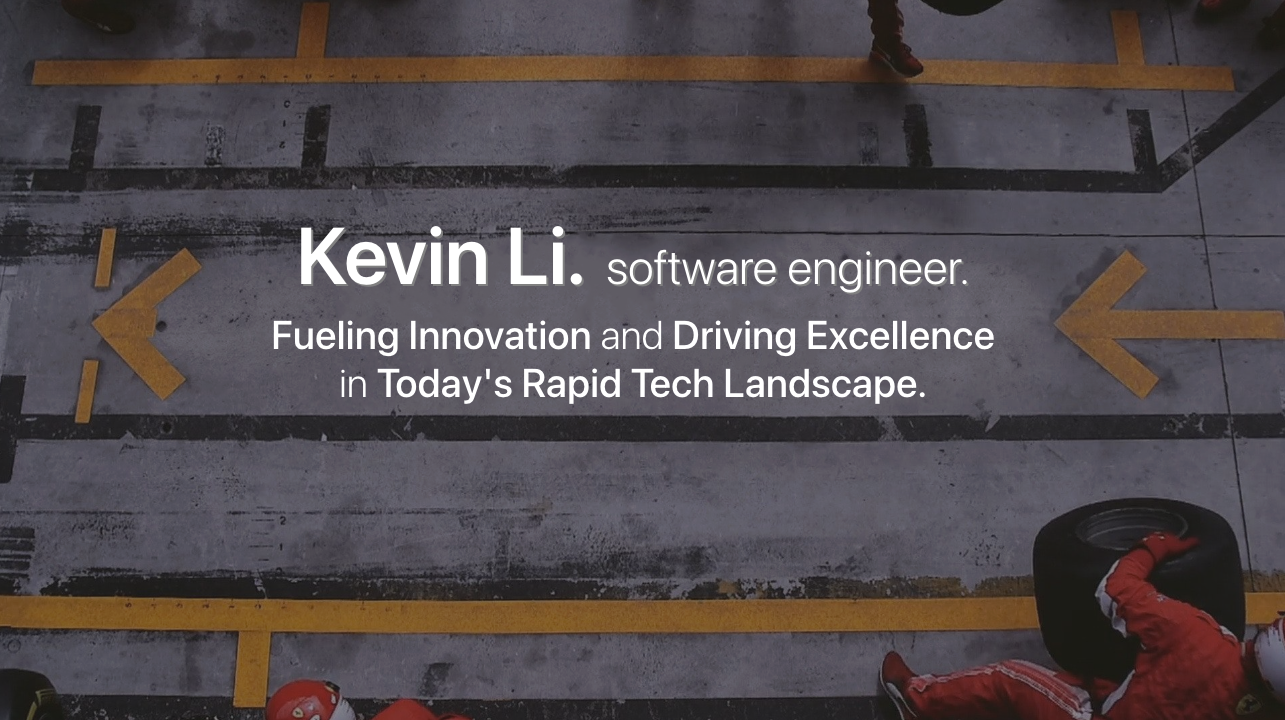
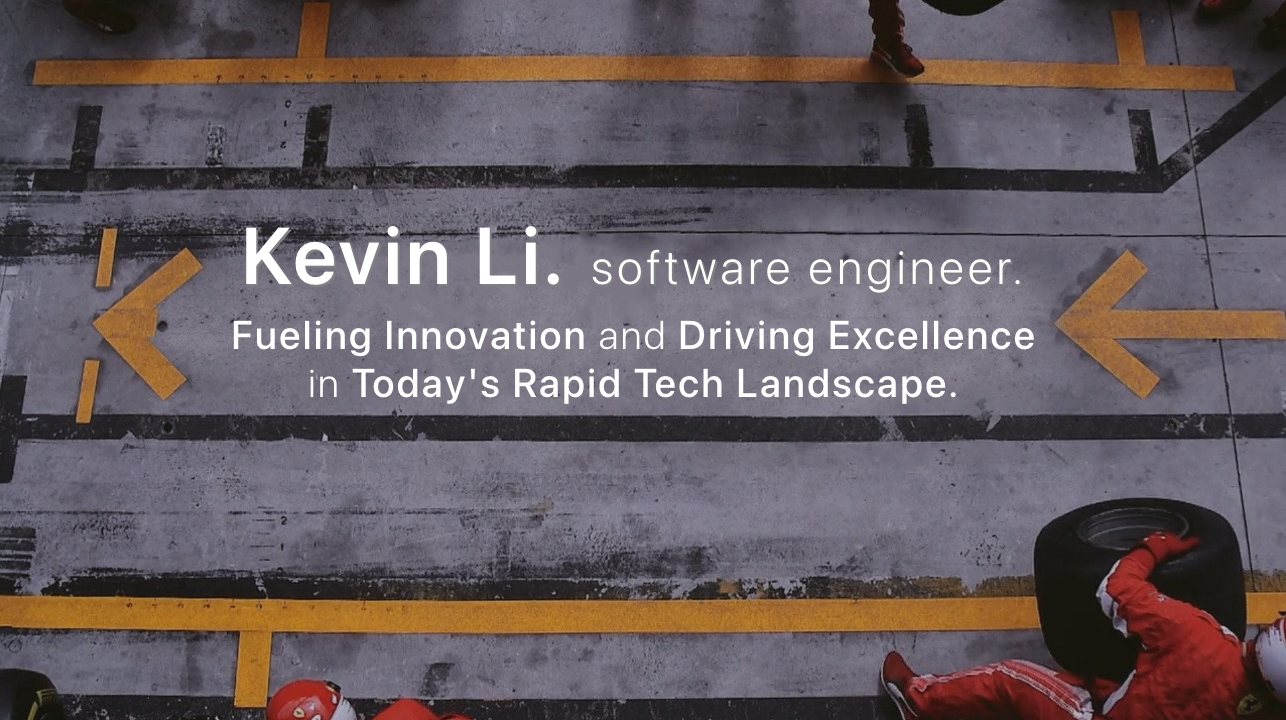
made landing page responsive

diff --git a/src/components/Home.jsx b/src/components/Home.jsx
@@ -1,12 +1,16 @@
 import { Container } from "react-bootstrap";
 import bg from "../assets/bg.png";
 import bg2 from "../assets/bg2.png";
+import bg3 from "../assets/bg3.png";
 
 const Home = () => {
   return (
-    <Container className="w-100 mt-4">
-      <Container className="" style={{ zIndex: -1 }}>
+    <Container className="w-100 mt-4 mb-2">
+      <Container className="d-none d-md-block">
         <img src={bg2} className="w-100"></img>
+      </Container>
+      <Container className="d-block d-md-none">
+        <img src={bg3} className="w-100"></img>
       </Container>
       {/* <Container
         className="w-full d-flex flex-column align-items-center justify-content-center mx-auto text-center position-relative text-white"
